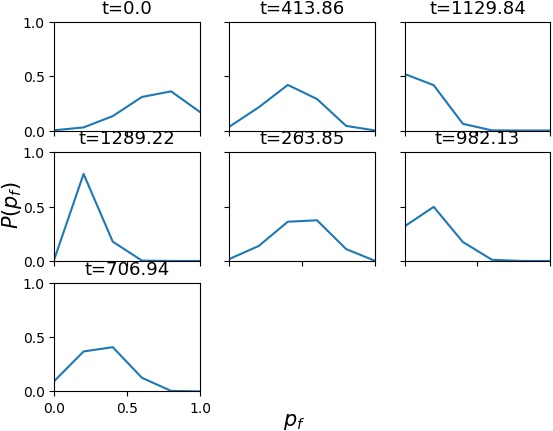
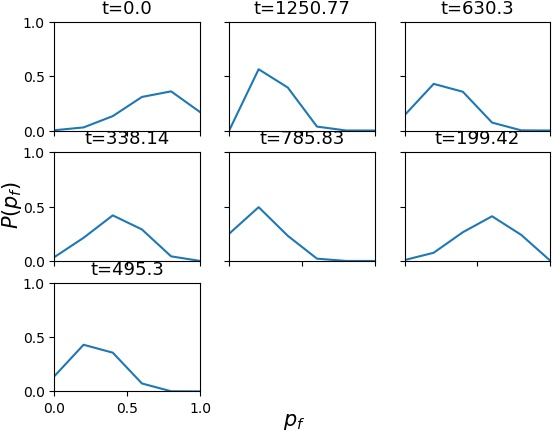
jun14

diff --git a/remeasure.py b/remeasure.py
@@ -93,7 +93,7 @@ def plot_frames(data):
         # plt.show()
         figname = 'video1/frame' + str(i) + '.png'
         fig.savefig(figname, format='png', bbox_extra_artists=(lgd,), bbox_inches='tight')
-file = open('14904/task2.pickle', 'rb') #18178
+file = open('14336/task3.pickle', 'rb') #18178
 data = pickle.load(file)
 creat_table(data)
 # plot_frames(data)

diff --git a/main.py b/main.py
@@ -81,7 +81,7 @@ team_server.start()
 
 
 
-measure = measure.Measure(directory='10857', case_name='task4.pickle')
+measure = measure.Measure(directory='12589', case_name='task4.pickle')
 print('phase1')
 human = human_v2.Human(task=task, team_server=team_server, measure=measure)
 # human.daemon = True
